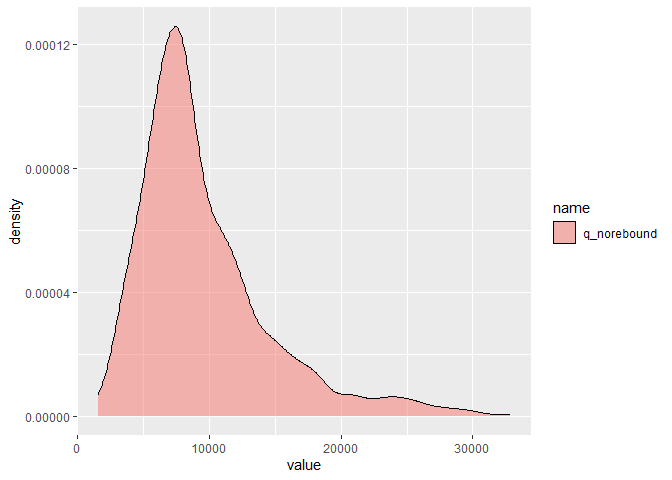
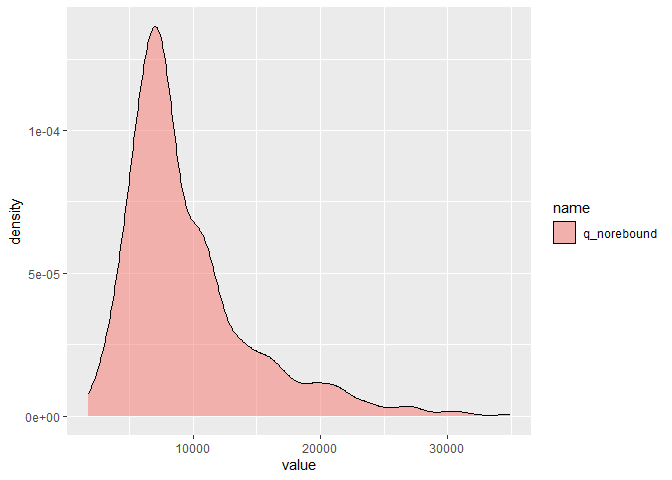
vignette modified

diff --git a/README.md b/README.md
@@ -36,198 +36,6 @@ The model runs at bi-monthly time-steps over the intervals 2015-2040 or
 2015-2040. *hpmicrosimr* therefore describes retrofit activity in the
 pre-2015 Irish housing stock (about 1.16M households).
 
-This is a development, but fully working, version of *hpmicrosimr*. The
-main elements are (1) a detailed financial model for household energy
-investments including heating technology, building fabric upgrade and
-state grant supports (2) an **initialiser** that imputes missing data
-and involves randomisation, (3) an **updater** and (4) a run module
-**runABM** where a choice scenario is specified. Agents live on a
-artificial social network to capture possible peer effects in heat pump
-adoption. The heating systems included in the current version of
-*hpmicrosimr* are oil, solid_fuel, gas, electric and air source
-heat_pumps. The current version of *hpmicrosimr* assumes that the
-building heating requirement is satisfied by the primary heating source.
-Backup secondary and tertiary heat sources do not play a role in the
-modelling.
-
-Two distinct processes occur at each time step in **updater**. Process 1
-describes random failure and replacement of the current heating
-technology based in the system age (time of installation). Failure
-probability is described by a Weibull distribution with
-technology-specific parameters. When the current system fails, agents
-choose between replacemnet with the old tech or adopting a heat pump.
-Risk aversion and status quo bias lowers the rate of adoption of heat
-pumps even in cases where this appears to offer a better financial
-return as defined by annualised cost savings. This simplification
-excludes possibilities such as solid fuel $`\rightarrow`$ electric or
-oil $`\rightarrow`$ gas. However, when an already installed heat pump
-fails, *hpmicrosimr* assumes that the agents choose between replacement
-with a new heat pump or switching to gas. Grant support is not available
-for a new heat pump in this case. Note that improvement in boiler
-efficiencies means that process 1 leads to a steady improvement in
-residential energy efficiency (BER) even without the effect of heat
-pumps.
-
-Process 2 involves a deliberate decision by some agents make an energy
-efficiency improvement (Building Energy Rating, BER). This reflects a
-desire to save money and/or to improve comfort. The household investment
-decision involves a potential building fabric or Heat Loss Indicator
-($`HLI`$) upgrade from $`HLI_{old} \rightarrow HLI_{new}`$, as well as a
-potential technology switch from $`tech_{old} \rightarrow tech_{new}`$.
-The function **optimise_upgrade()** determines the optimum upgrade path,
-including state grant incentives that apply at the current time. The
-rate at which households choose to update the energy efficiency of their
-home is set by an inertia parameter *p.*. *.p* is the fraction of agents
-who choose to make a home energy efficiency improvement at each time
-step. Along with other poorly known parameters, it is found from
-macro-calibration to historical grant upake data. If the value of $`p.`$
-is small and energy costs are high, most households have not yet taken
-advantage of energy efficiency upgrades that could reduce their costs.
-This is a so-called energy efficiency “gap” or “paradox”. However, there
-are other barriers that contribute to the energy efficiency gap.
-**optimise_upgrade()** includes the agents’ time preferences and other
-behavioural characteristics.
-
-Without “behavioural” parameters that describe agents risk-aversion
-($`\theta`$). The agents time preferences are described by two
-parameters-the discount rate $`r`$ and a present bias $`\beta`$. In
-addition, there is an aversion to disruption $`\eta`$ and and aversion
-to grant applications $`\tau`$. There is also a large “prebound” effect
-$`\rho`$. This means tha
-
-| parameter     | symbol | typical_value | type                  | source            |
-|:--------------|:-------|:--------------|:----------------------|:------------------|
-| risk aversion | θ      | 10-30%        | heterogeneous barrier | survey (2024)     |
-| discount rate | r      | 3.5%          | homogeneous           | macro-calibration |
-| present bias  | β      | 0.5           | homogeneous           | calibration       |
-| inertia       | p      | 0.05          | homogeneous           | calibration       |
-| disruption    | η      | 0.16          | homogeneous           | calibration       |
-| sludge        | τ      | 0.02          | homogeneous           | calibration       |
-| prebound      | ρ      | 0.4           | homogeneous           | observed FEC      |
-
-Table 1: Calibration Parameters
-
-The parameters of Table 1 are integrated into the decision rule as
-follows. Following a heating system breakdown, a heat pump is adopted if
-the annualised cost savings relative to retaining the current technology
-exceed $`\theta_i`$ where $`i`$ is the agent index. Heat pumps involve a
-significant upfront cost, therefore the agents time preferences are
-important.
-
-``` math
-
-EAC = opex + \frac{CRF(r)}{\beta} (capex-grant) \tag{1}
-```
-where $`EAC`$ is the equivalent annual cost with interest rate $`r`$,
-present bias $`\beta`$, including the effect of grants. A heat pump is
-adopted provided that the EAC of a heat pump is sufficiently low
-relative to retaining the current heating system. This is
-heterogeneous - more risk averse or conservative households require
-higher return before switching. However, if an agent has an associate
-who has already adopted a heat pump this is lowered.
-
-Process 2 involves the decision whether to upgrade the energy efficiency
-of the building. Without any corrections, a purely “rational” financial
-decision would minimise the annualised cost $`A`$ annualised investment
-cost with discount rate $`r`$. The change in annualised cost
-$`\Delta A`$ is
-``` math
-
-\Delta EAC = \Delta opex - r(capex - grant) \tag{3}
-```
-If $`\Delta EAC`$ is negative then investment is justified, and agents
-may choose the optimal investment i.e. the . $`\Delta opex`$ is
-calculated from the change in space heating requirement ($`Q_{sh}`$)
-following the upgrade, $`\Delta Q_{sh}=52.7 \times \Delta HLI`$. This
-assumes Heating Degree Days of 2,196 $`^\circ C-days`$. The change is
-annual heating bills is then:
-``` math
-
-\Delta opex = 52.7 \frac{\Delta HLI{\epsilon} p_{fuel} \tag{4}
-```
-where $`\epsilon`$ is the heating system efficiency
-(i.e. $`\epsilon < 1`$ for boilers and $`\approx`$ 3 for a heat pump )
-and $`p_{fuel}`$ is the prevailing fuel price in units $`€/kWh`$. Note
-that no prebound effect is included in Equation (3). The reason is that
-some of the return from investment in building fabric upgrades is in the
-form of improved comfort. A reasonable approach to capturing this is to
-ignore the prebound effect i.e. the engineering financial return capture
-the full welfare gain of the agent include financial cost and comfort.
-On the other hand, a calculation of the impact on energy demand needs to
-take prebound into effect.
-
-It would not be possible to fit the observed uptake of building fabric
-retrofits using Equation (3). In reality, there is a significant impact
-of additional non-financial factors $`\beta`$, $`\eta`$ and $`\tau`$.
-Here $`\beta`$ is used to parameterise the “sticker shock” associated
-with higher upfront costs and $`\eta`$ and $`\tau`$ are associated with
-“hassle” - $`\eta`$ describes the disruption effect that scales with
-capital cost and $`\tau`$ describes the grant application “sludge” that
-is assumed to scale with grant size.
-
-``` math
-
-A = opex - \left(\frac{r}{\beta} + \eta \right) capex + \left(\frac{r}{\beta} - \tau \right) grant \tag{2}
-```
-
-Following a decision to explore an energy efficiency upgrade, the agents
-seek to optimise the upgrade taking the time preferences into.
-\*hpmicrosimr\$ assumes that HLI improvements are a long-live. The
-annualised savings due to a HLI upgrade are then:
-``` math
-
-A_{fabric} = \delta opex - \left(\frac{r}{\beta} + \eta \right) capex + \left(\frac{r}{\beta} - \tau \right) grant \tag{2}
-```
-
-### Fabric Ugrade Cost Model
-
-*hpmicromsimr* uses a simplified model of $`HLI`$ upgrade costs. This is
-based on increasing marginal of improvement at lower values of $`HLI`$.
-The marginal cost model a logistic model, that crosses over from low
-cost measures for inefficient buildings, to high marginal cost for a
-building that is already efficient. If $`C`$ is the upgrade cost for a
-100m$`^2`$ heated floor area building.
-``` math
-
-\frac{d C}{d HLI} = \frac{c_{min}}{1+e^{-\left(HLI-HLI_0\right)/k}} + \frac{c_{max}}{1+e^{\left(HLI-HLI_0\right)/k}} \tag{1}
-```
-The values of the parameters Appropropriate values for Irish upgrade
-costs are currently, For example, for a two-storey semi-detached house
-\$c\_{min}= €42 { <sup>C}{m</sup>2}/W \$,
-$`c_{max}= €465 { ^\circ C}{m^2}/W`$, $`K=0.37W/{ ^\circ C}{m^2}`$. The
-crossover scale $`HLI_0 = 2.3 W/{ ^\circ C}{m^2}`$ which corresponds to
-a BER of C2 for a house with an efficient gas boiler.
-
-Equation (1) can be integrated to find the cost for an arbitrary
-uppgrade from $`HLI_{old}`$ to $`HLI_{new}`$
-``` math
-
-C= c_{max} \left(HLI_{old}-HLI_{new}\right) + K\left(c_{max}-c_{min}\right) \log{\left[ \frac{1+e^{(HLI_{f}-HLI_0)/k})}{1+e^{(HLI_{i}-HLI_0)/k}} \right]} \tag{2}
-```
-Equation (2) is used to find the optimal upgrade path.
-
-<figure>
-<img src="images/upgrade_costs1.png"
-alt="fabric upgrade costs for two-storey semi-detached houses in Munster" />
-<figcaption aria-hidden="true">fabric upgrade costs for two-storey
-semi-detached houses in Munster</figcaption>
-</figure>
-
-\##Scenarios
-
-Applications of *hpmicrosimr* are to project energy efficiency outcomes
-based on future policy scenarios (such as WEM/WAM), impacts on CO2
-emissions, and associated cost-benefit analysis of generous incentive
-schemes.
-
-There are large behavioural preferences that influence energy efficiency
-outcomes. There is strong evidence of “temperature take-back” or rebound
-effects following space heating efficiency upgrades. *hpmicrosimr*
-
-A separate package *hpmicrocalibrater* is used to generate the model
-weights and thresholds and are provided in a dataset *agents_init*
-attached to *hpmicrosimr*.
-
 ## Installation
 
 To install the latest development version of *hpmicrosimr*:
@@ -389,11 +197,8 @@ operating cost and therefore makes heat pumps appear less attractive.
     #> ✔ lubridate 1.9.3     ✔ tidyr     1.3.1
     #> ✔ purrr     1.0.2     
     #> ── Conflicts ────────────────────────────────────────── tidyverse_conflicts() ──
-    #> ✖ tidyr::extract()    masks magrittr::extract()
-    #> ✖ dplyr::filter()     masks stats::filter()
-    #> ✖ dplyr::group_rows() masks kableExtra::group_rows()
-    #> ✖ dplyr::lag()        masks stats::lag()
-    #> ✖ purrr::set_names()  masks magrittr::set_names()
+    #> ✖ dplyr::filter() masks stats::filter()
+    #> ✖ dplyr::lag()    masks stats::lag()
     #> ℹ Use the conflicted package (<http://conflicted.r-lib.org/>) to force all conflicts to become errors
 
 <div class="figure">
